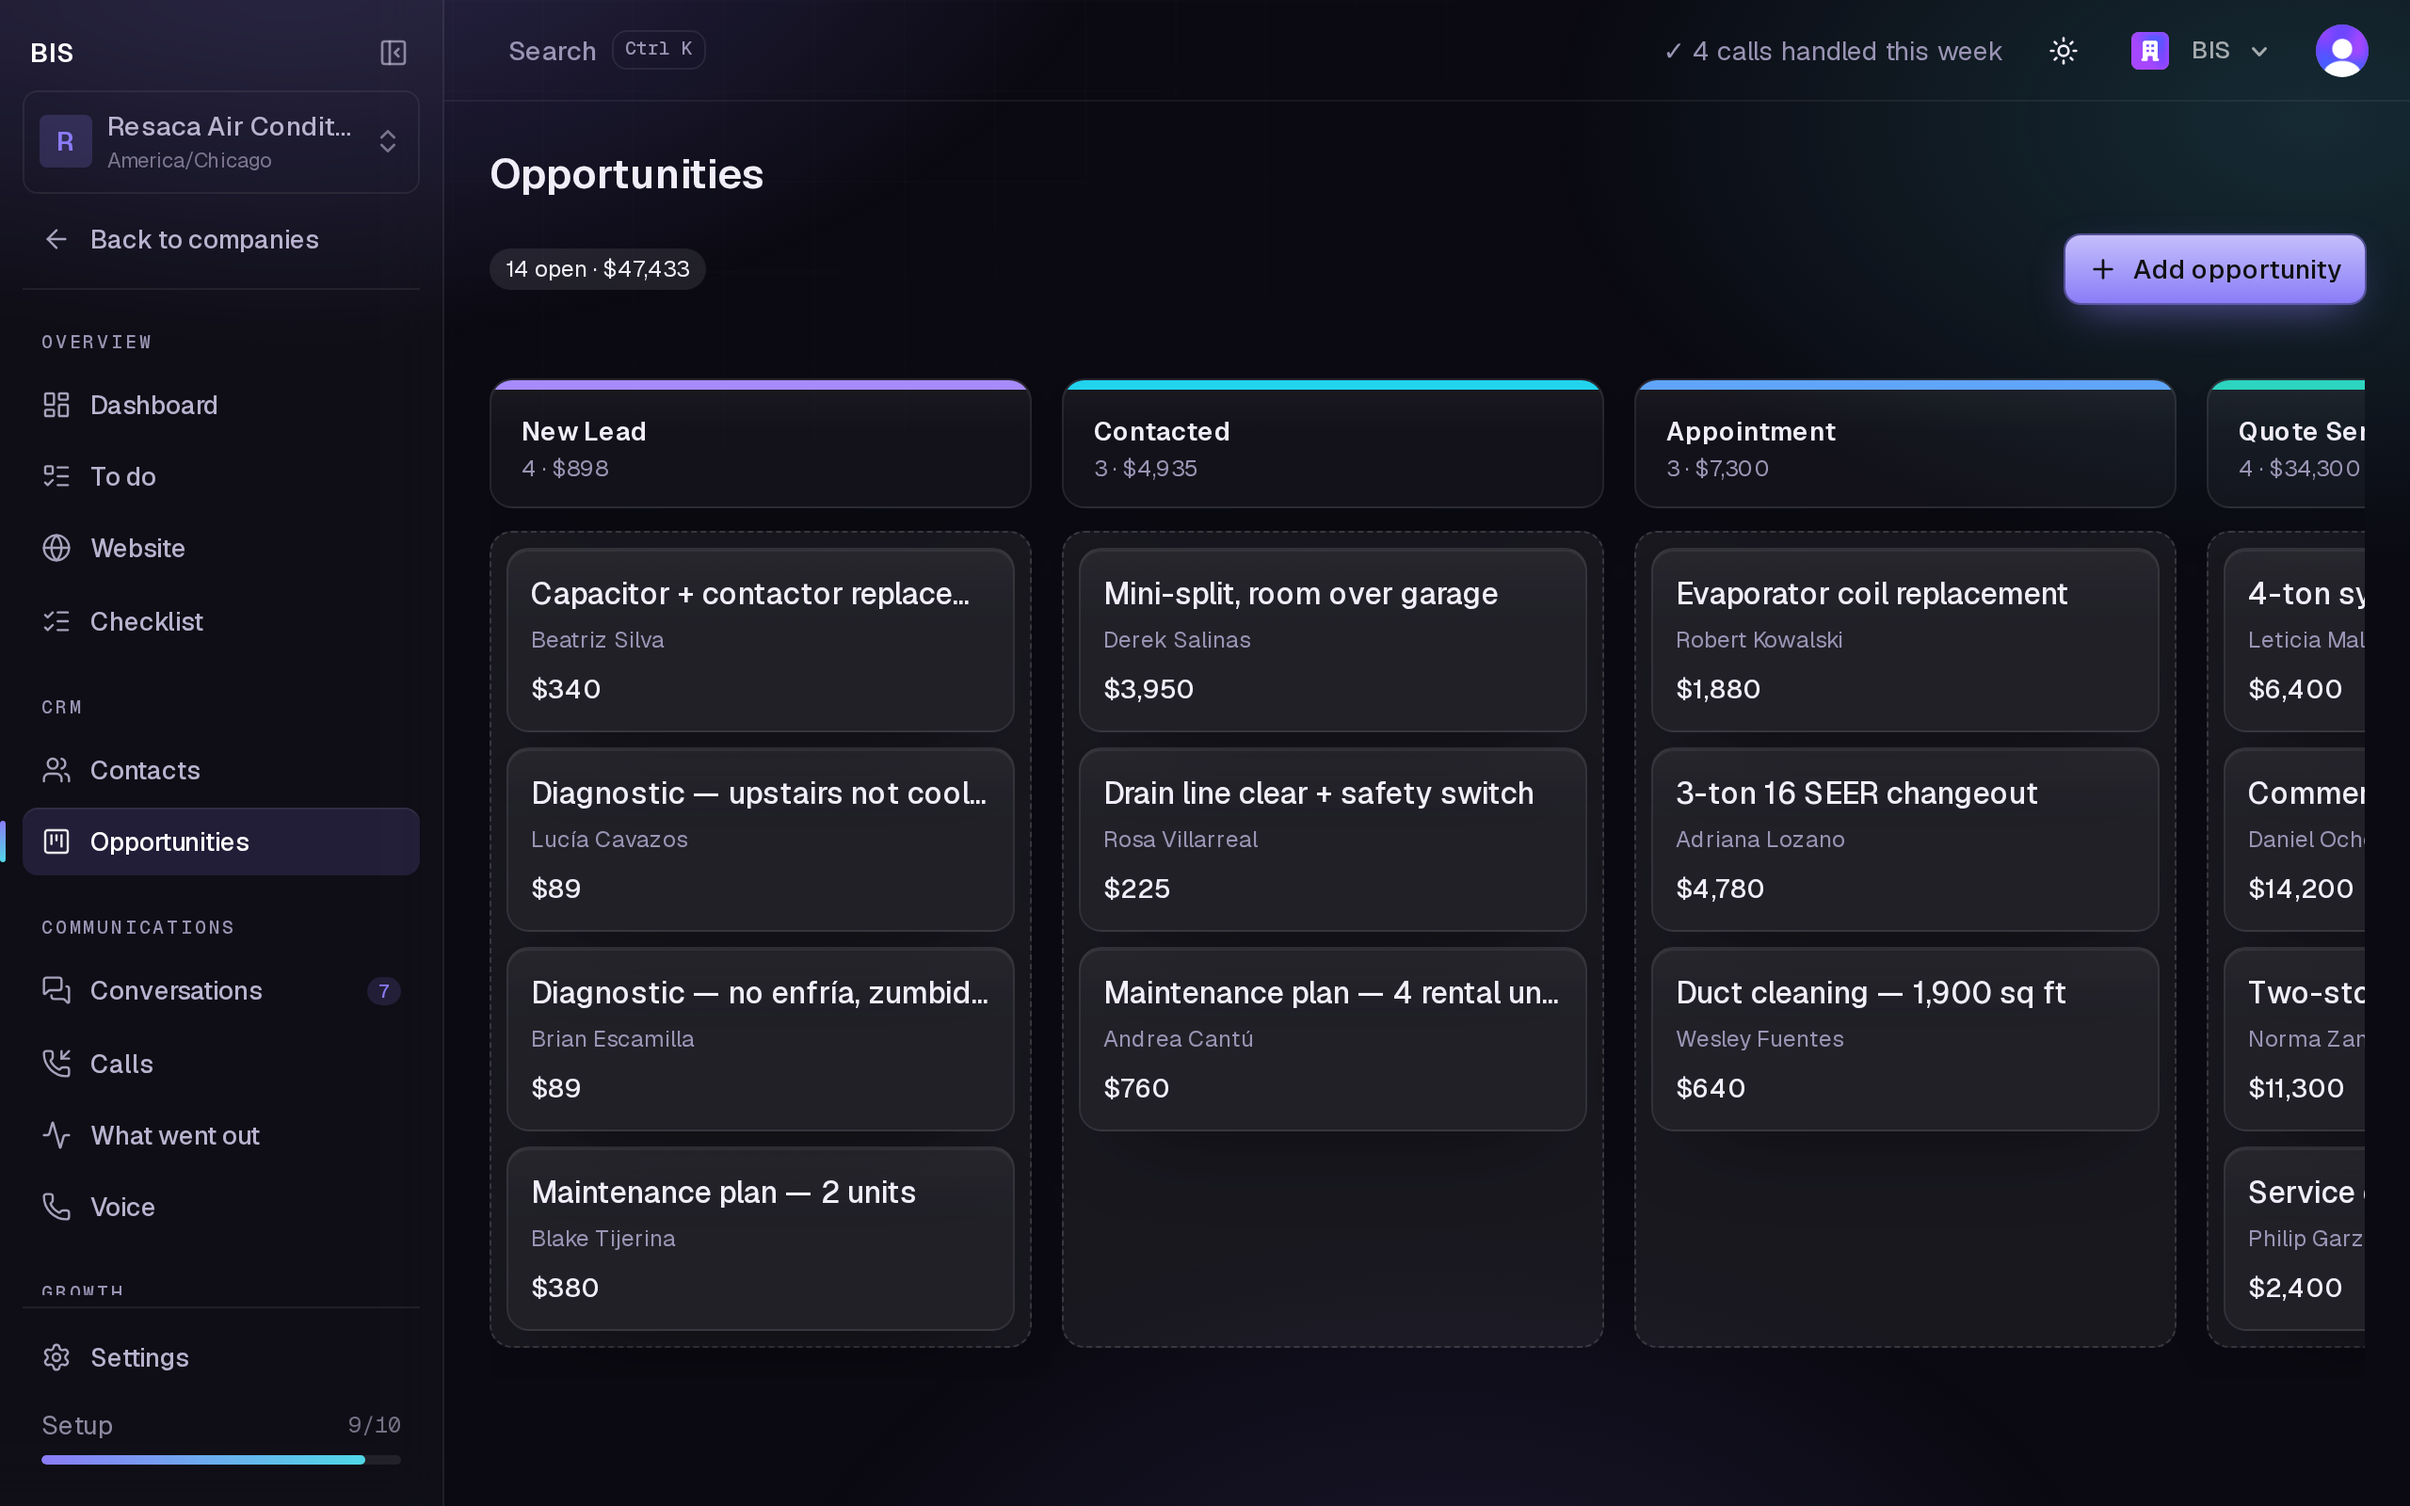
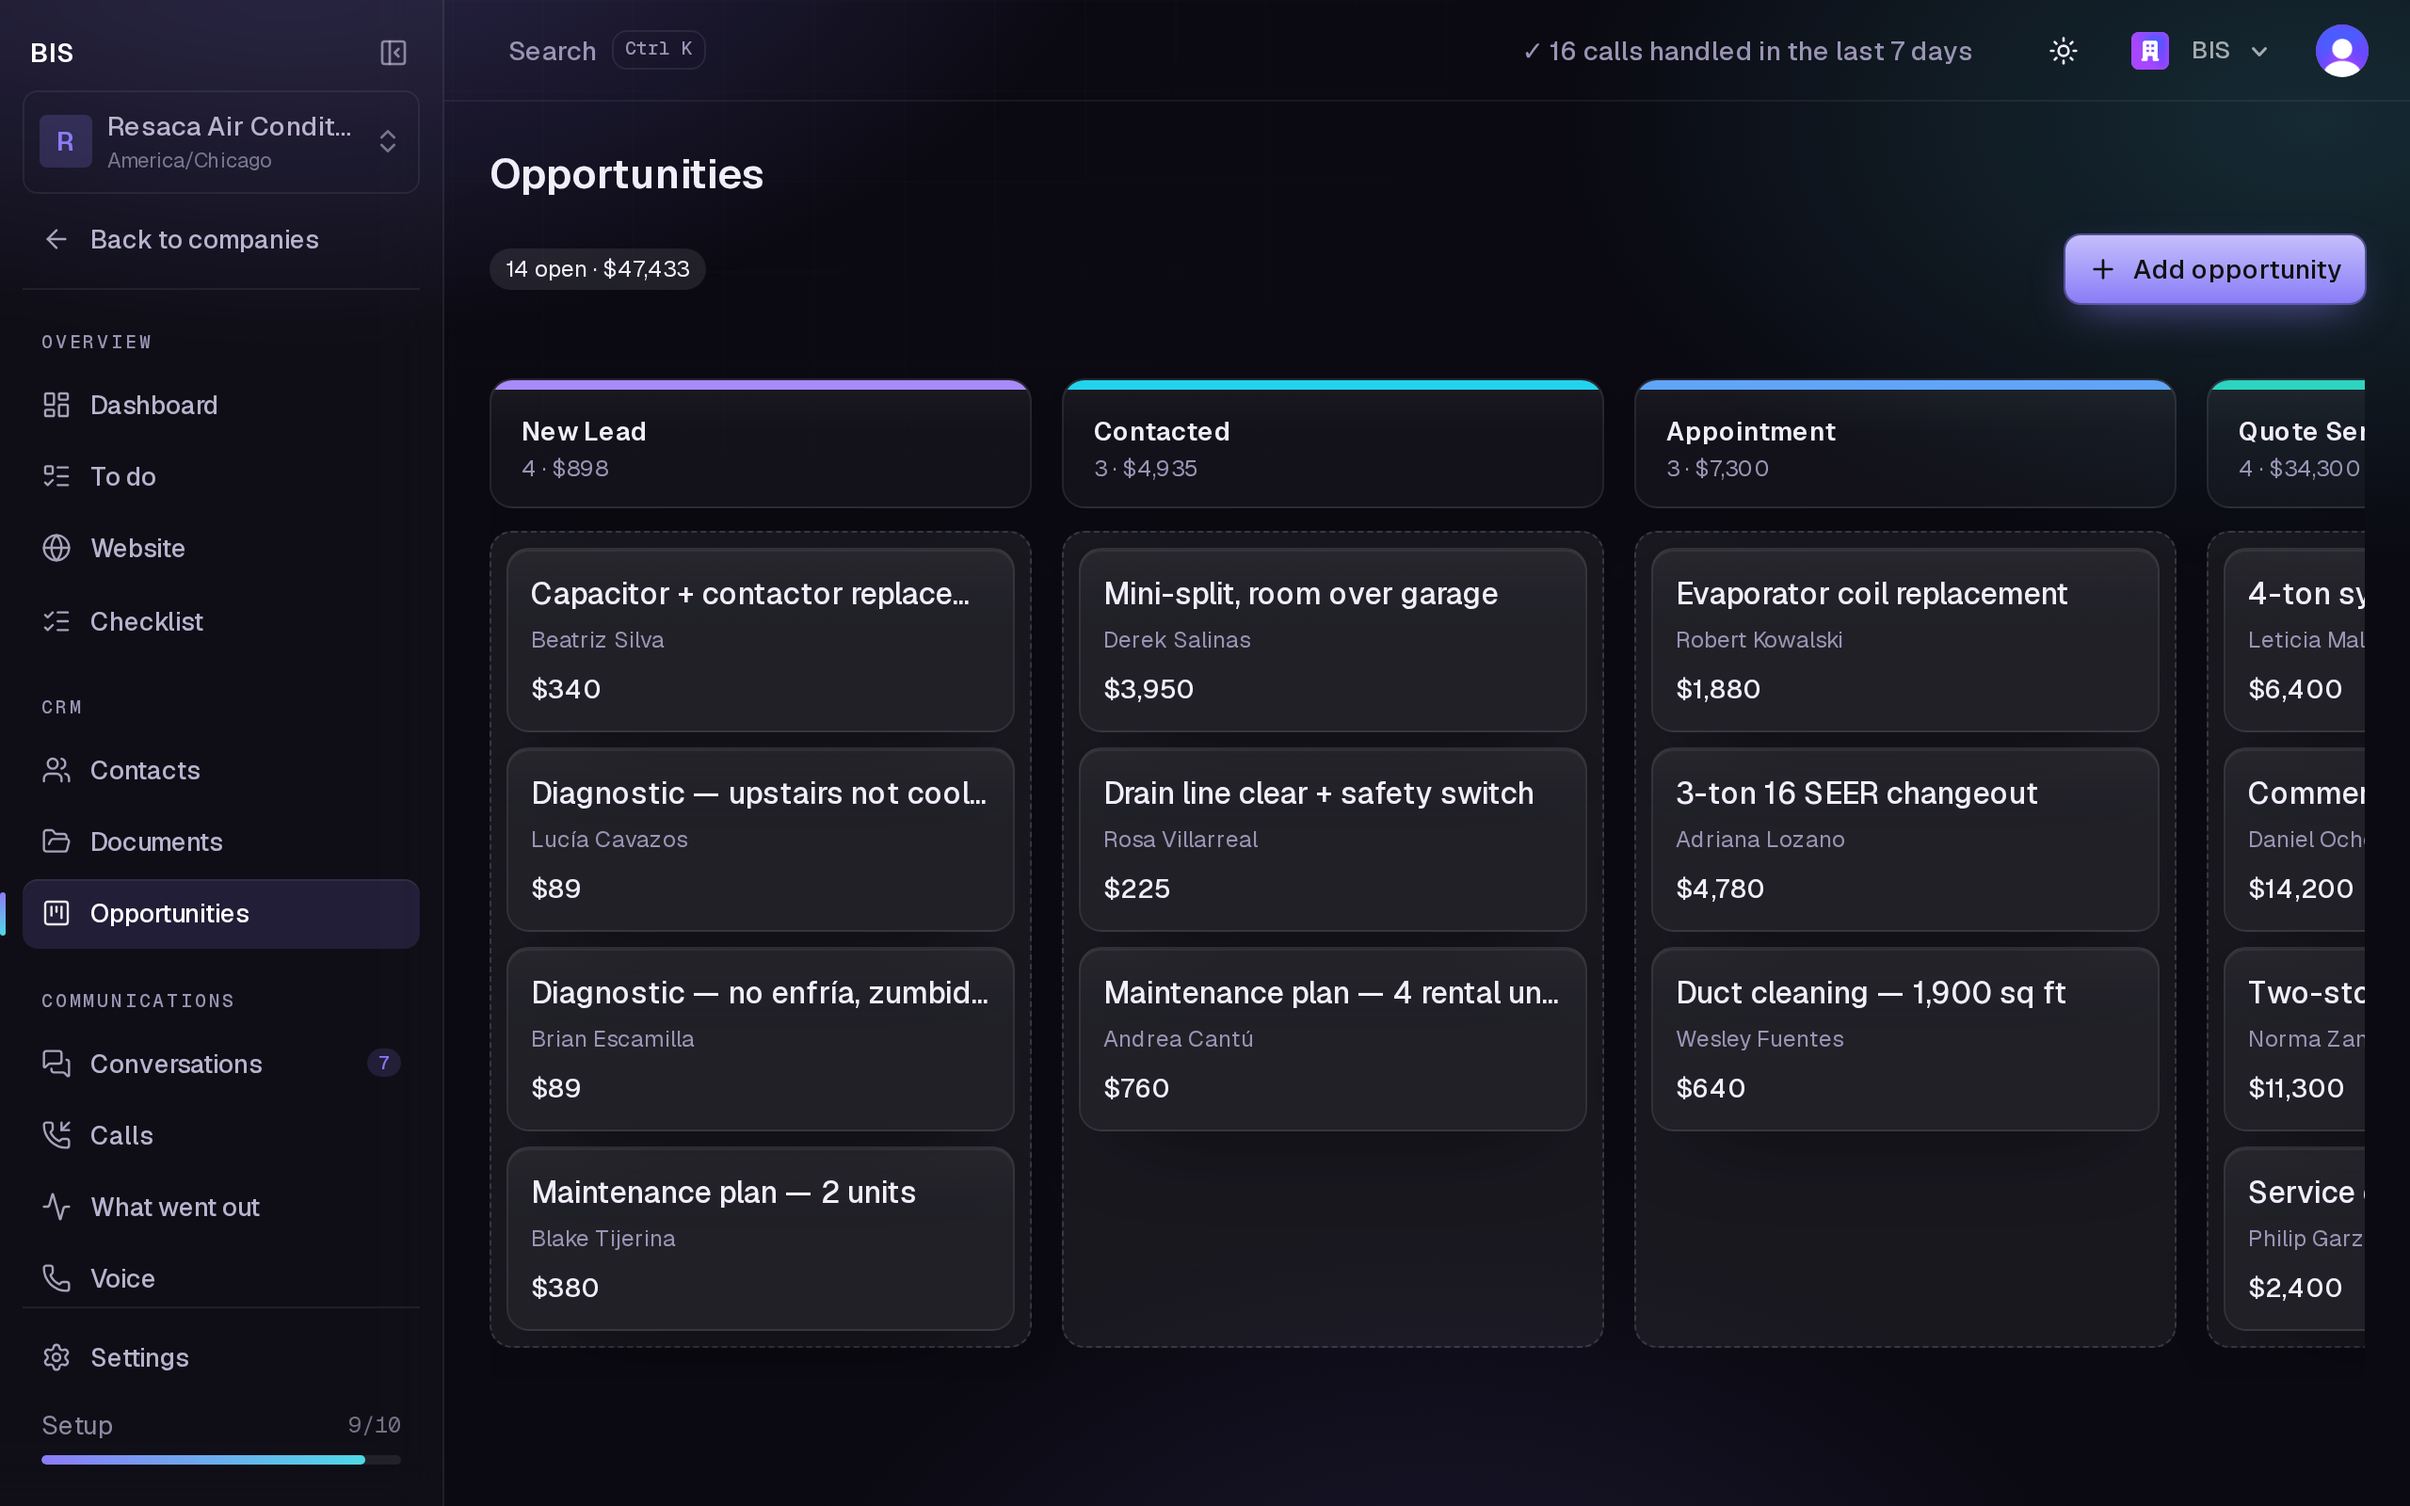
Platform shots: the Oct 26 capture, a taller dashboard, re-placed hotspots (#76)
Six new captures from bis-platform #291's branch (run 40358955407): the
topbar reads "✓ 16 calls handled in the last 7 days", matching the tile
under it, the dashboard carries the business status card ("Open today")
and is 2560x2000, the booking page shows a day with three open times, and
the weekly report carries the demo company's new logo. The home page's
three hotspots were re-measured on the new layout, not scaled.

Claude-Session: https://claude.ai/code/session_01HoAPGkJC14e8DDBrCd7inF

diff --git a/src/lib/platform-tour.ts b/src/lib/platform-tour.ts
@@ -96,10 +96,10 @@ export const tourSections = [
   // The client's own name and logo over the open times, on the customer's
   // phone. 1170x2391: a 390x797 phone screen at 3x (capture.spec.ts `PHONE`).
   // Dark since 2026-10-26: the demo company's logo is drawn on black. The
-  // clock is early afternoon because the capture shows the morning gone and
-  // the 2:00 PM time still open.
+  // capture shows tomorrow's times (today's are gone), so the clock reads late
+  // afternoon.
   { id: 'booking', shot: { file: 'booking-page.png', width: 1170, height: 2391 },
-    phone: { clock: '12:40', show: 0.63, ground: '#0d1117', ink: '#ffffff' } },
+    phone: { clock: '4:52', show: 0.63, ground: '#0d1117', ink: '#ffffff' } },
   // The four numbers, in words, on the owner's phone at 8 on Monday.
   { id: 'report', shot: { file: 'weekly-report.png', width: 1170, height: 2391 },
     phone: { clock: '8:02', show: 0.67, ground: '#ffffff' } },
@@ -128,9 +128,10 @@ export function tourShot(id: TourSectionId): ShotSlot {
 /** The hero capture, above the fold and separate from the alternating tour. */
 export const heroShot: ShotSlot = {
   // Taller than the tour's 2560x1600 since 2026-10-10: the capture shoots the
-  // dashboard alone at 1280x880 so the calls chart keeps its day labels
-  // (bis-platform screenshots/capture.spec.ts, `DASHBOARD`).
-  file: 'dashboard-dark.png', width: 2560, height: 1760,
+  // dashboard alone so the calls chart keeps its day labels (bis-platform
+  // screenshots/capture.spec.ts, `DASHBOARD`). 1280x1000 since 2026-10-26,
+  // when the business status card ("Open today") joined the page above it.
+  file: 'dashboard-dark.png', width: 2560, height: 2000,
 };
 
 const PUBLIC_SHOTS = path.join(process.cwd(), 'public', 'screenshots');

diff --git a/src/app/[locale]/page.tsx b/src/app/[locale]/page.tsx
@@ -44,11 +44,16 @@ export async function generateMetadata({ params }: { params: Promise<{ locale: s
  * chart's day labels are in frame. The layout above did not move, so every
  * marker keeps its pixel position and only the percentage changes:
  * top × 1600 / 1760.
+ *
+ * Retaken 2026-10-26: 2000 tall, and the business status card ("Open today")
+ * now sits above the KPIs, so every marker was re-measured on the new
+ * capture rather than scaled: the calls tile's sparkline, the after-hours
+ * tile's figure and the newest booking in Activity.
  */
 const SPOTS = [
-  { left: 34.5, top: 46.4 },
-  { left: 71, top: 42.7 },
-  { left: 80, top: 76.4 },
+  { left: 34.5, top: 56.6 },
+  { left: 71, top: 53.8 },
+  { left: 88, top: 80.3 },
 ] as const;
 
 /**
